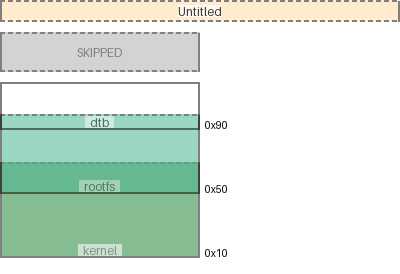
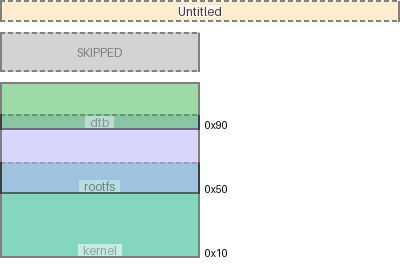
tidy up

Changed region(s): [[0.0, 0.292, 0.51, 0.9343]]

diff --git a/mm/diagram.py b/mm/diagram.py
@@ -242,10 +242,12 @@ class Diagram:
                 ( (mmd_idx * mmd.width), final_diagram_img.height - max_name_lbl_height),
                 alpha=255)    
 
-            link_overlay_canvas = PIL.ImageDraw.Draw(final_diagram_img)
-
-
         # overlay links on top of everything else
+        link_arrow_size = 3
+        link_thickness = 3
+    
+        link_overlay_canvas = PIL.ImageDraw.Draw(final_diagram_img)
+
         for source_mmd_idx, mmd in enumerate(self.mmd_list):    
             for region_image in mmd.image_list:
                 source_region_mid_pos_x = region_image.abs_mid_pos_x
@@ -272,24 +274,22 @@ class Diagram:
                                                 target_region.abs_mid_pos_y
                                             )
                                         ], 
-                                        fill="red", 
-                                        width=5
+                                        fill=(255, 0, 0), 
+                                        width=link_thickness
                                     )        
                                     link_overlay_canvas.ellipse(
                                         [
-                                            (target_mmd_idx * mmd.width) + target_region.abs_mid_pos_x, 
-                                            target_region.abs_mid_pos_y,
-                                            (target_mmd_idx * mmd.width) + target_region.abs_mid_pos_x + 10, 
-                                            target_region.abs_mid_pos_y + 10
+                                            (target_mmd_idx * mmd.width) + target_region.abs_mid_pos_x - (link_arrow_size), 
+                                            target_region.abs_mid_pos_y - (link_arrow_size),
+                                            (target_mmd_idx * mmd.width) + target_region.abs_mid_pos_x + link_arrow_size, 
+                                            target_region.abs_mid_pos_y + link_arrow_size
                                         ],
-                                        fill="red",
+                                        fill=(255, 0, 0),
                                         outline="red",
-                                        width=10
+                                        width=link_arrow_size
                                     )
-                                                                
-                                    
-                                    pass
-                    
+
+        # finalise diagram                                                 
         final_diagram_img = final_diagram_img.transpose(PIL.Image.FLIP_TOP_BOTTOM)
         img_file_path = pathlib.Path(Diagram.pargs.out).stem + "_redux.png"
         final_diagram_img.save(pathlib.Path(Diagram.pargs.out).parent / img_file_path)

diff --git a/doc/example/test_generate_doc_example_three_maps.md b/doc/example/test_generate_doc_example_three_maps.md
@@ -1,9 +1,9 @@
 ![memory map diagram](test_generate_doc_example_three_maps_cropped.png)
 |name|origin|size|free Space|collisions
 |:-|:-|:-|:-|:-|
-|<span style='color:(168, 74, 83, 240)'>Blob3</span>|0x50|0x10|0x388|{}|
-|<span style='color:(194, 189, 53, 99)'>Blob6</span>|0x50|0x96|0x302|{'Blob5': '0x50'}|
-|<span style='color:(69, 100, 181, 41)'>Blob5</span>|0x32|0x64|-0x46|{'Blob4': '0x32', 'Blob6': '0x50'}|
-|<span style='color:(168, 74, 83, 240)'>Blob1</span>|0x10|0x10|0x3c8|{}|
-|<span style='color:(168, 74, 83, 240)'>Blob2</span>|0x10|0x10|0x30|{}|
-|<span style='color:(159, 143, 110, 200)'>Blob4</span>|0xa|0x3c|-0x14|{'Blob5': '0x32'}|
+|<span style='color:(126, 128, 80, 182)'>Blob3</span>|0x50|0x10|0x388|{}|
+|<span style='color:(241, 107, 95, 148)'>Blob6</span>|0x50|0x96|0x302|{'Blob5': '0x50'}|
+|<span style='color:(152, 186, 151, 102)'>Blob5</span>|0x32|0x64|-0x46|{'Blob4': '0x32', 'Blob6': '0x50'}|
+|<span style='color:(126, 128, 80, 182)'>Blob1</span>|0x10|0x10|0x3c8|{}|
+|<span style='color:(126, 128, 80, 182)'>Blob2</span>|0x10|0x10|0x30|{}|
+|<span style='color:(3, 153, 81, 58)'>Blob4</span>|0xa|0x3c|-0x14|{'Blob5': '0x32'}|

diff --git a/doc/example/test_generate_doc_example_two_maps.md b/doc/example/test_generate_doc_example_two_maps.md
@@ -1,8 +1,8 @@
 ![memory map diagram](test_generate_doc_example_two_maps_cropped.png)
 |name|origin|size|free Space|collisions
 |:-|:-|:-|:-|:-|
-|<span style='color:(159, 143, 110, 200)'>Blob4</span>|0x100|0x10|0x2d8|{}|
-|<span style='color:(168, 74, 83, 240)'>Blob3</span>|0x50|0x10|0x388|{}|
-|<span style='color:(69, 100, 181, 41)'>Blob5</span>|0x30|0x10|0x10|{}|
-|<span style='color:(168, 74, 83, 240)'>Blob1</span>|0x10|0x10|0xe0|{}|
-|<span style='color:(168, 74, 83, 240)'>Blob2</span>|0x10|0x10|0x10|{}|
+|<span style='color:(3, 153, 81, 58)'>Blob4</span>|0x100|0x10|0x2d8|{}|
+|<span style='color:(126, 128, 80, 182)'>Blob3</span>|0x50|0x10|0x388|{}|
+|<span style='color:(152, 186, 151, 102)'>Blob5</span>|0x30|0x10|0x10|{}|
+|<span style='color:(126, 128, 80, 182)'>Blob1</span>|0x10|0x10|0xe0|{}|
+|<span style='color:(126, 128, 80, 182)'>Blob2</span>|0x10|0x10|0x10|{}|

diff --git a/doc/example/test_generate_doc_example_collisions.md b/doc/example/test_generate_doc_example_collisions.md
@@ -1,6 +1,6 @@
 ![memory map diagram](test_generate_doc_example_collisions_cropped.png)
 |name|origin|size|free Space|collisions
 |:-|:-|:-|:-|:-|
-|<span style='color:(129, 9, 221, 0)'>dtb</span>|0x90|0x30|0x328|{'rootfs': '0x90'}|
-|<span style='color:(75, 183, 142, 168)'>rootfs</span>|0x50|0x50|-0x10|{'kernel': '0x50', 'dtb': '0x90'}|
-|<span style='color:(40, 135, 61, 205)'>kernel</span>|0x10|0x60|-0x20|{'rootfs': '0x50'}|
+|<span style='color:(68, 184, 89, 242)'>dtb</span>|0x90|0x30|0x328|{'rootfs': '0x90'}|
+|<span style='color:(182, 178, 250, 149)'>rootfs</span>|0x50|0x50|-0x10|{'kernel': '0x50', 'dtb': '0x90'}|
+|<span style='color:(30, 179, 136, 230)'>kernel</span>|0x10|0x60|-0x20|{'rootfs': '0x50'}|

diff --git a/doc/example/test_generate_doc_example_normal.md b/doc/example/test_generate_doc_example_normal.md
@@ -1,6 +1,6 @@
 ![memory map diagram](test_generate_doc_example_normal_cropped.png)
 |name|origin|size|free Space|collisions
 |:-|:-|:-|:-|:-|
-|<span style='color:(129, 9, 221, 0)'>dtb</span>|0x190|0x30|0x228|{}|
-|<span style='color:(75, 183, 142, 168)'>rootfs</span>|0x50|0x30|0x110|{}|
-|<span style='color:(40, 135, 61, 205)'>kernel</span>|0x10|0x30|0x10|{}|
+|<span style='color:(68, 184, 89, 242)'>dtb</span>|0x190|0x30|0x228|{}|
+|<span style='color:(182, 178, 250, 149)'>rootfs</span>|0x50|0x30|0x110|{}|
+|<span style='color:(30, 179, 136, 230)'>kernel</span>|0x10|0x30|0x10|{}|
